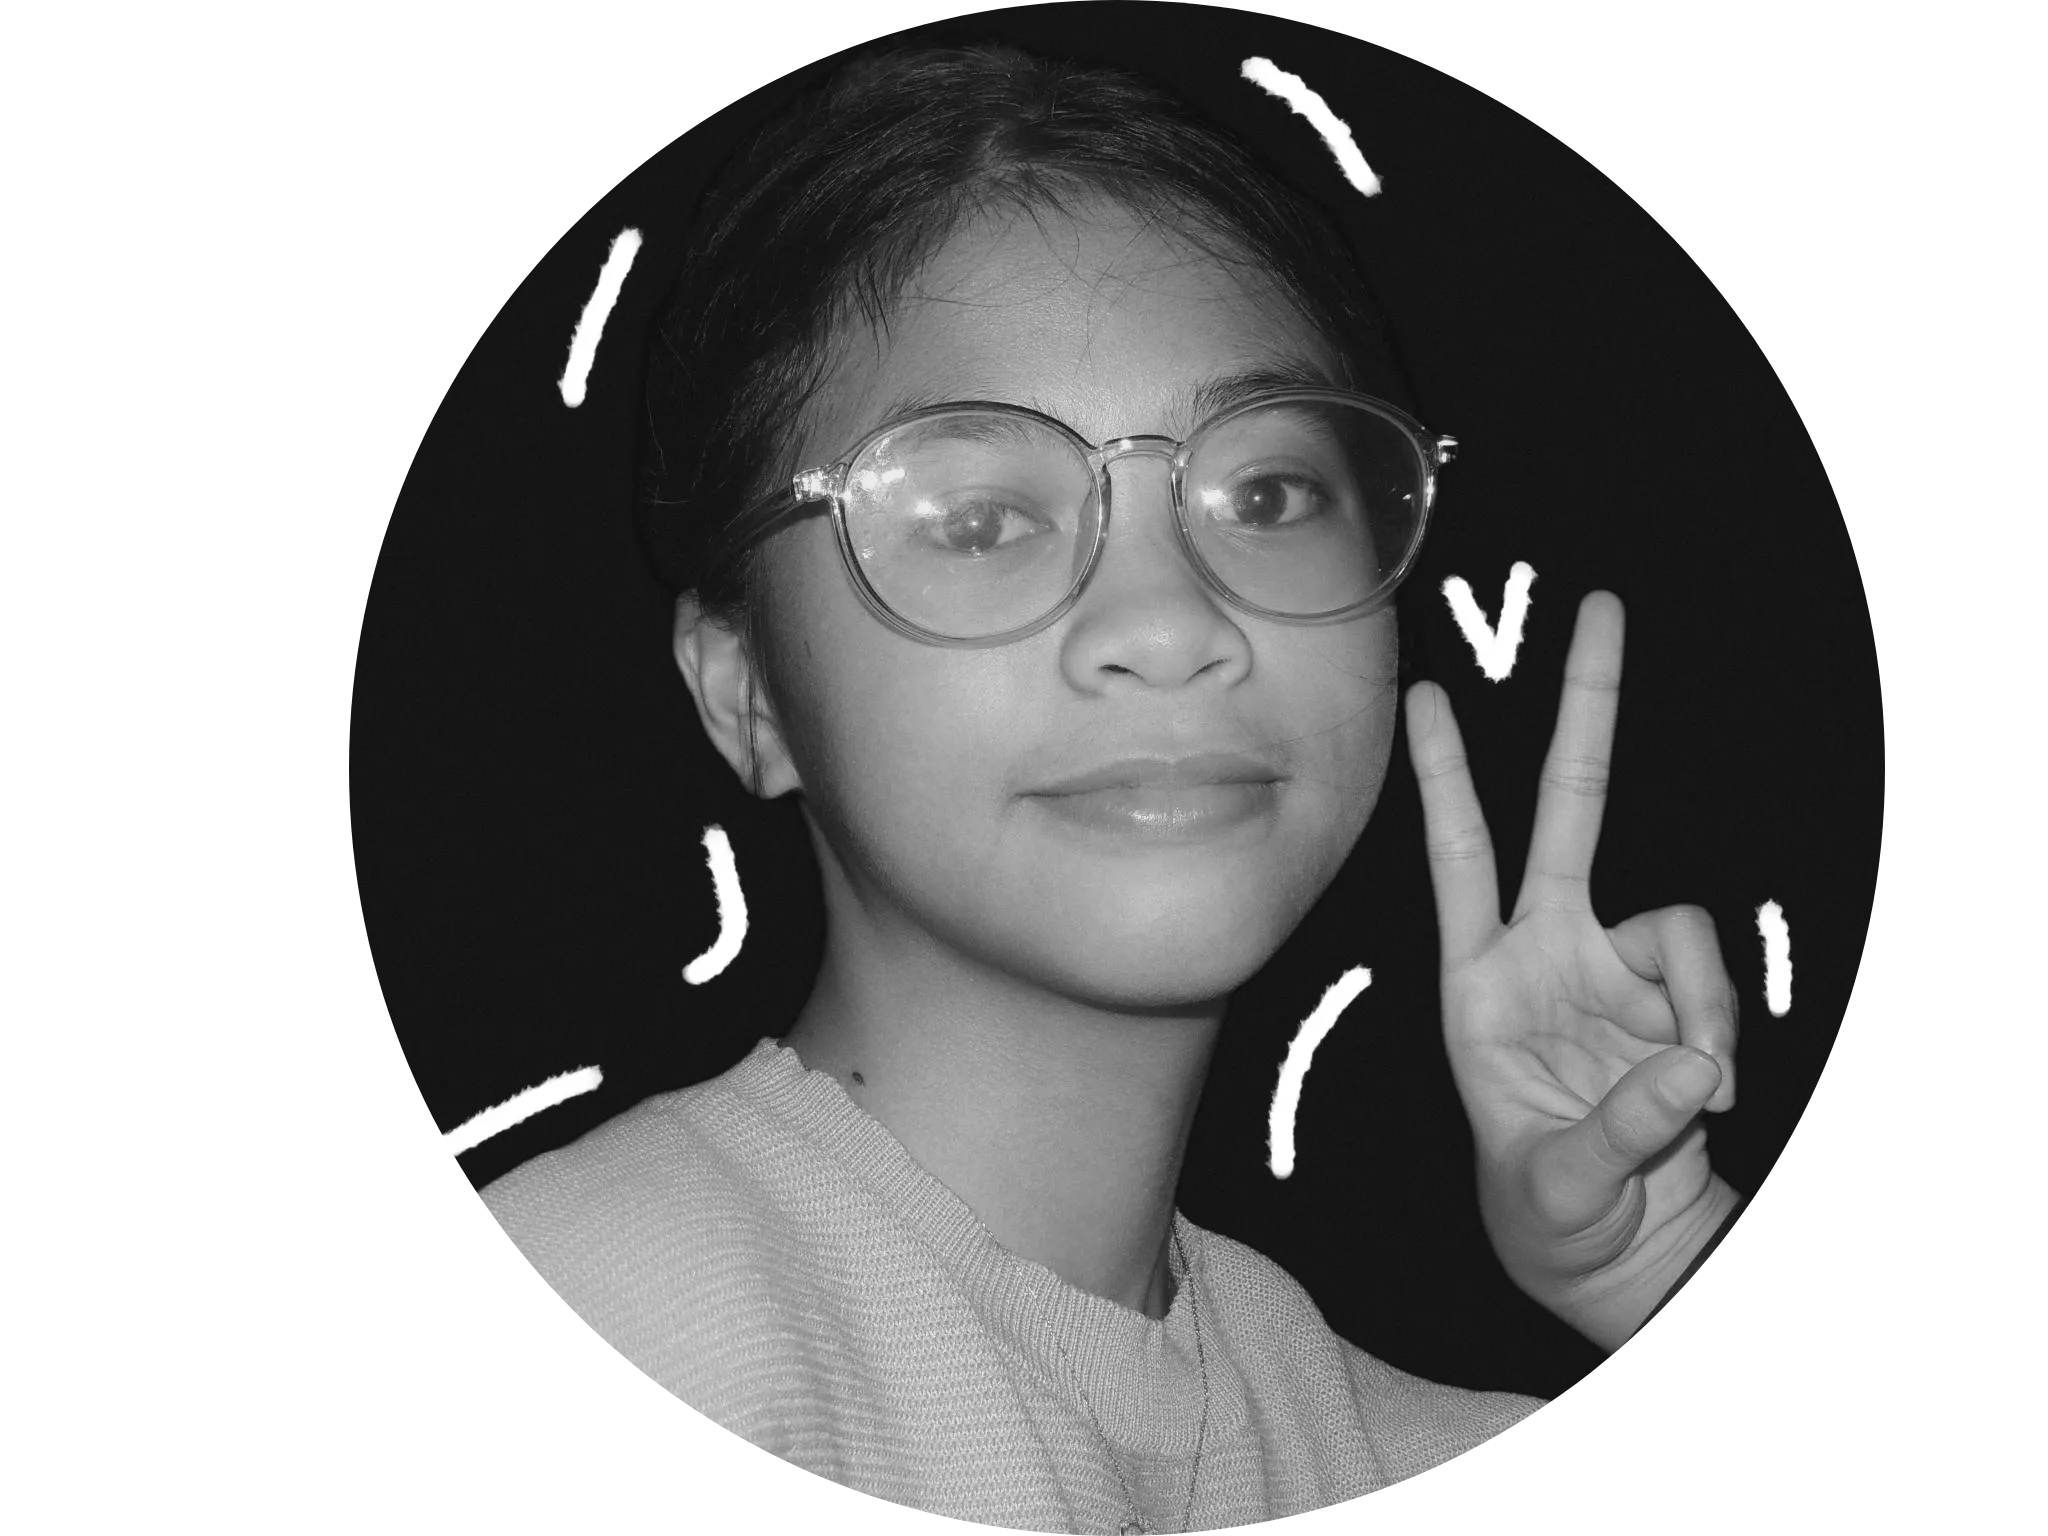
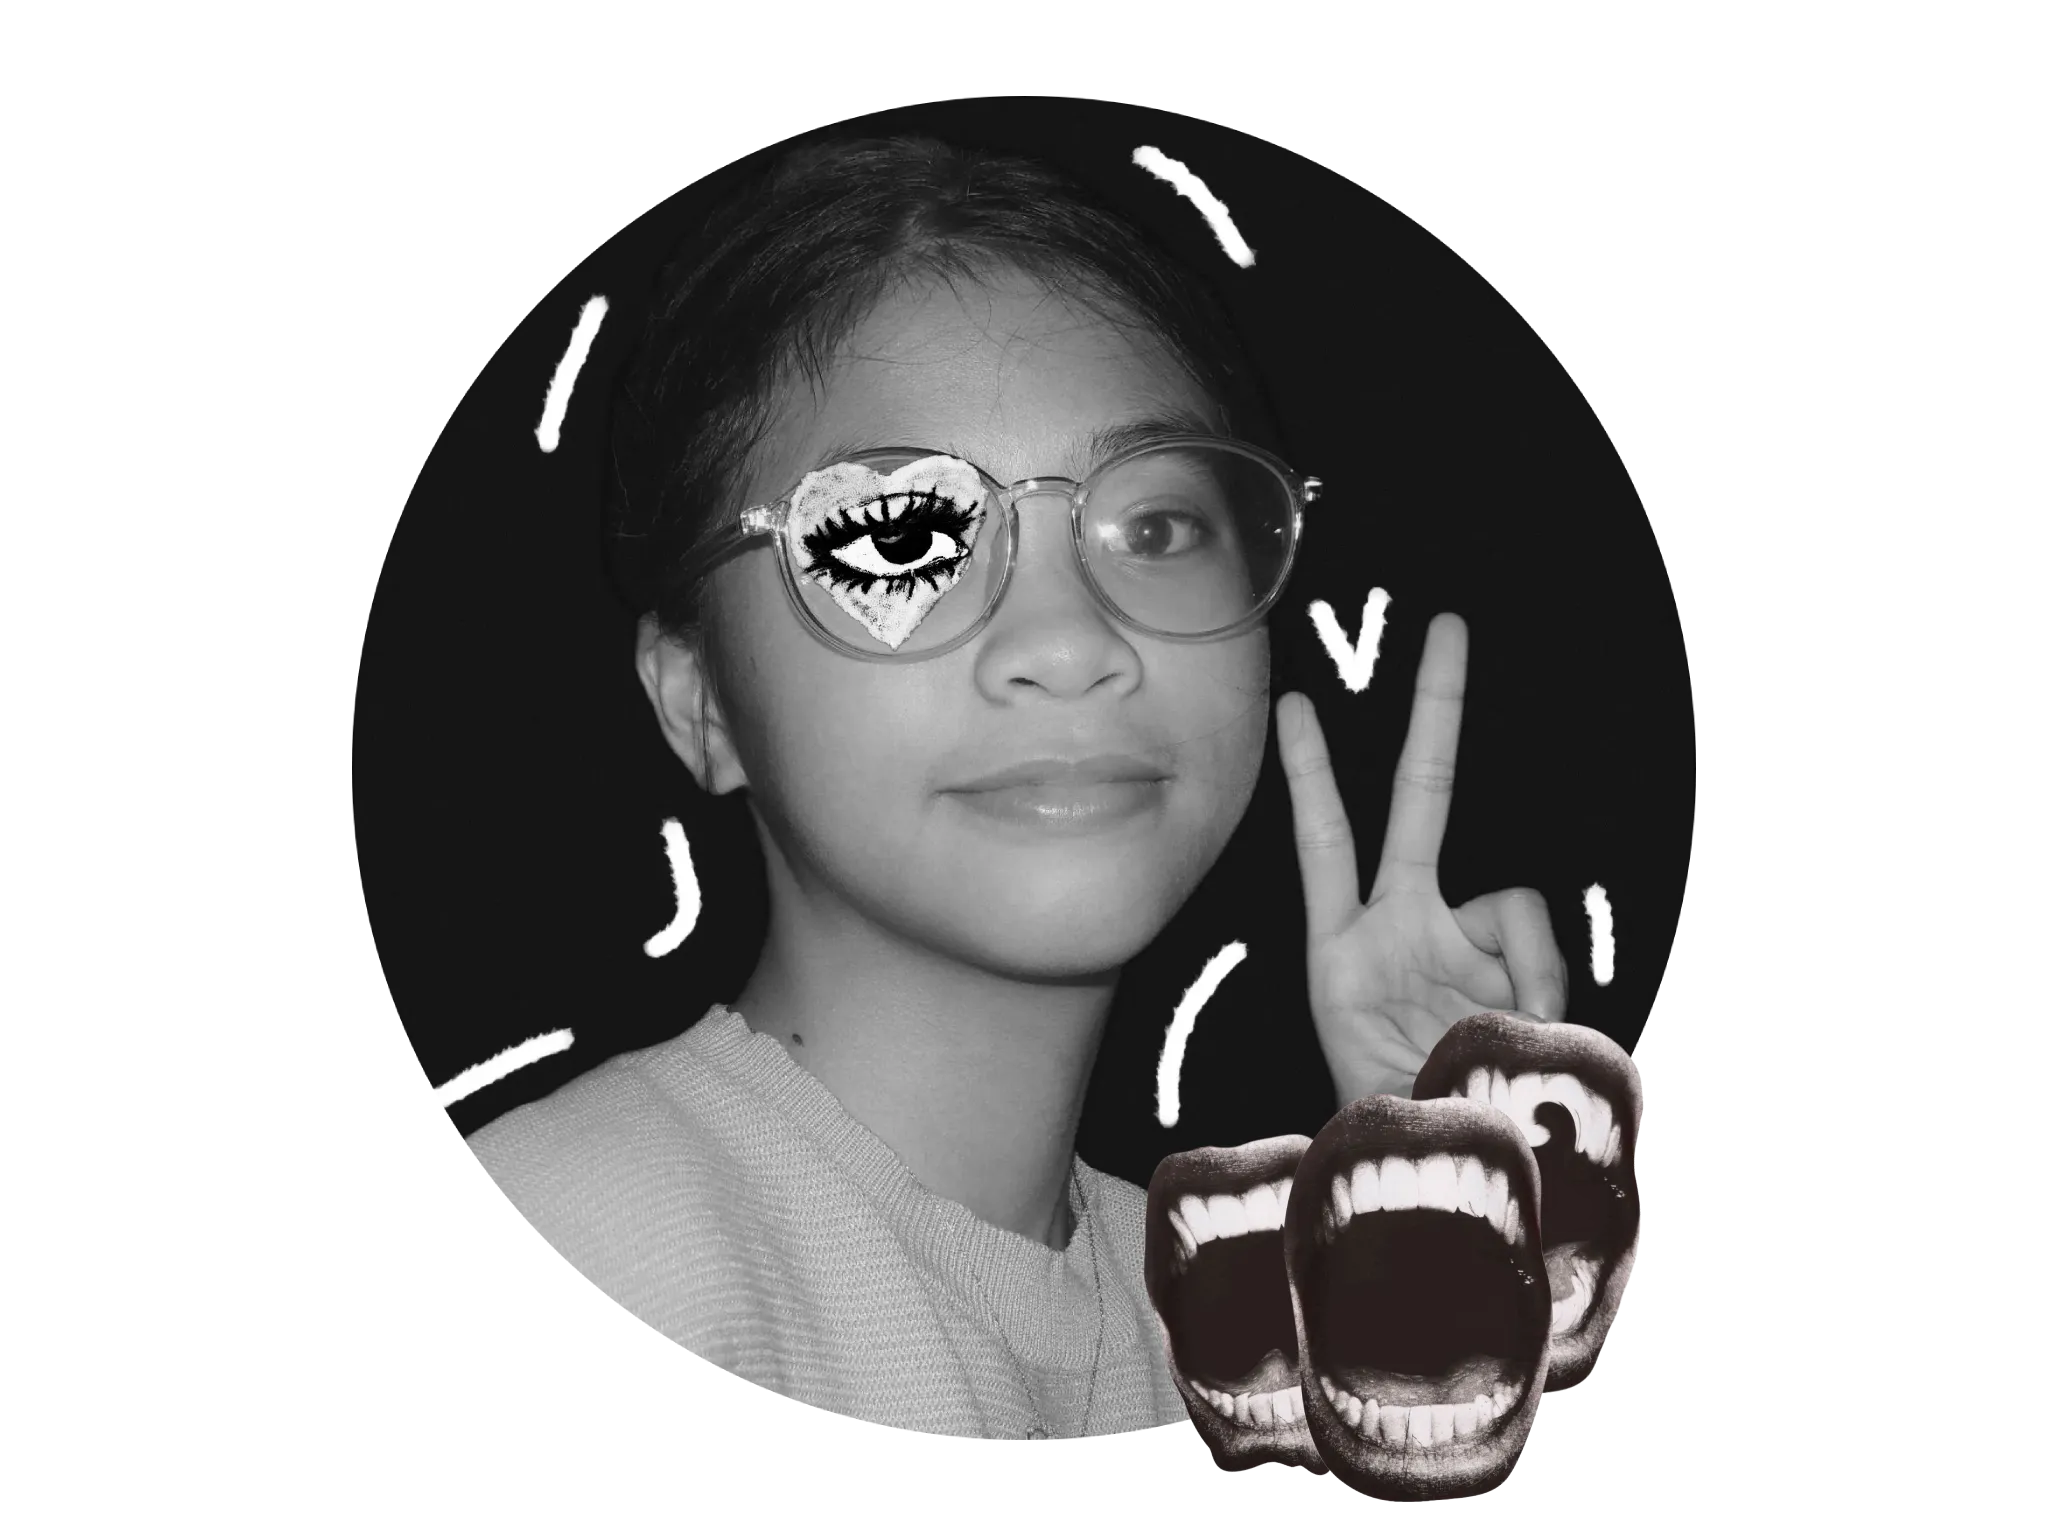
adjusted the responsiveness on secoond page

diff --git a/second-page.css b/second-page.css
@@ -5,12 +5,13 @@
 }
 
 .second-page-container {
-  width: 100%;
+  max-width: 100%;
   height: 140dvh;
   display: flex;
   flex-direction: row;
   align-items: center;
   justify-content: space-around;
+  margin-top: 2rem;
 }
 
 .first-green-background {
@@ -33,61 +34,31 @@
 }
 
 .pic-objects {
-  width: 100%;
-
+  width: min(100%, 1300px);
+  margin-right: max(1vh, -2rem); 
 }
 
 .gab {
-  width: min(100%, 1000px);
+  width: 100%;
   opacity: 95%;
   position: relative;
 }
 
-.eye {
-  position: absolute;
-  width: 20px;
-}
-
-.mouth-regular {
-  position: absolute;
-  width: 20%;
-  
-}
-
-.mouth-distort-1 {
-  position: absolute;
-  width: 10px;
-}
-
-.mouth-distort-2 {
-  position: absolute;
-  width: 10px;
-}
-
-.mouth-distort-3 {
-  position: absolute;
-  width: 10px;
-}
-
 .paragraph-statement {
-  display: flex;
-  align-items: start;
-  justify-content: start;
-  margin-left: 2.7rem;
-  flex-direction: column;
+  margin-left: max(1vh, 1.5rem); 
 }
 
 .second-page .intro-text {
-  color: white;
+  color: white; 
   font-weight: 600;
   line-height: 0.9;
-  margin-left: 2rem;
   margin-bottom: 2rem;
+  margin-left: max(1vh, 1rem);
 }
 
 .intro-text p {
   font-family: 'Bebas Neue', sans-serif;
-  font-size: clamp(5rem, 10vw + 6rem, 13rem);
+  font-size: clamp(3rem, 10vw + 2rem, 13rem);
 }
 
 .text-column-objects {
@@ -95,7 +66,8 @@
   flex-direction: column;
   align-items: start;
   width: min(100%, 1500px);
-  margin-top: -4rem;
+  margin-left: max(1vh, 2rem); 
+  margin-top: 4rem;
 }
 
 .paragraph-statement .text-gab {
@@ -103,7 +75,7 @@
 }
 
 .paragraph-statement p {
-  font-size: 1.1rem;
+  font-size: clamp(0.7rem, 2vw + 0.3rem, 1.1rem);
   color: white;
   font-weight: 600;
   margin-bottom: 1.8rem;

diff --git a/index.html b/index.html
@@ -67,12 +67,6 @@
           </div>
           <div class="pic-objects">
             <img class="gab" src="images/gab.webp" />
-            <div class="gab-profile">
-              <img class="eye" src="images/eyepatch.png" />
-              <img class="mouth-regular" src="images/mouth-regular.png" />
-              <img class="mouth-distort-2" src="images/mouth-distort-2.png" />
-              <img class="mouth-distort-3" src="images/mouth-distort-3.png" />
-            </div>
           </div>
         </div>
       </section>

diff --git a/first-page.css b/first-page.css
@@ -30,7 +30,7 @@ body {
 
 .front-page .gab-picture {
   position: absolute;
-  max-width: 31rem;
+  width: min(100%, 1500px);
   bottom: 0;
 }
 
